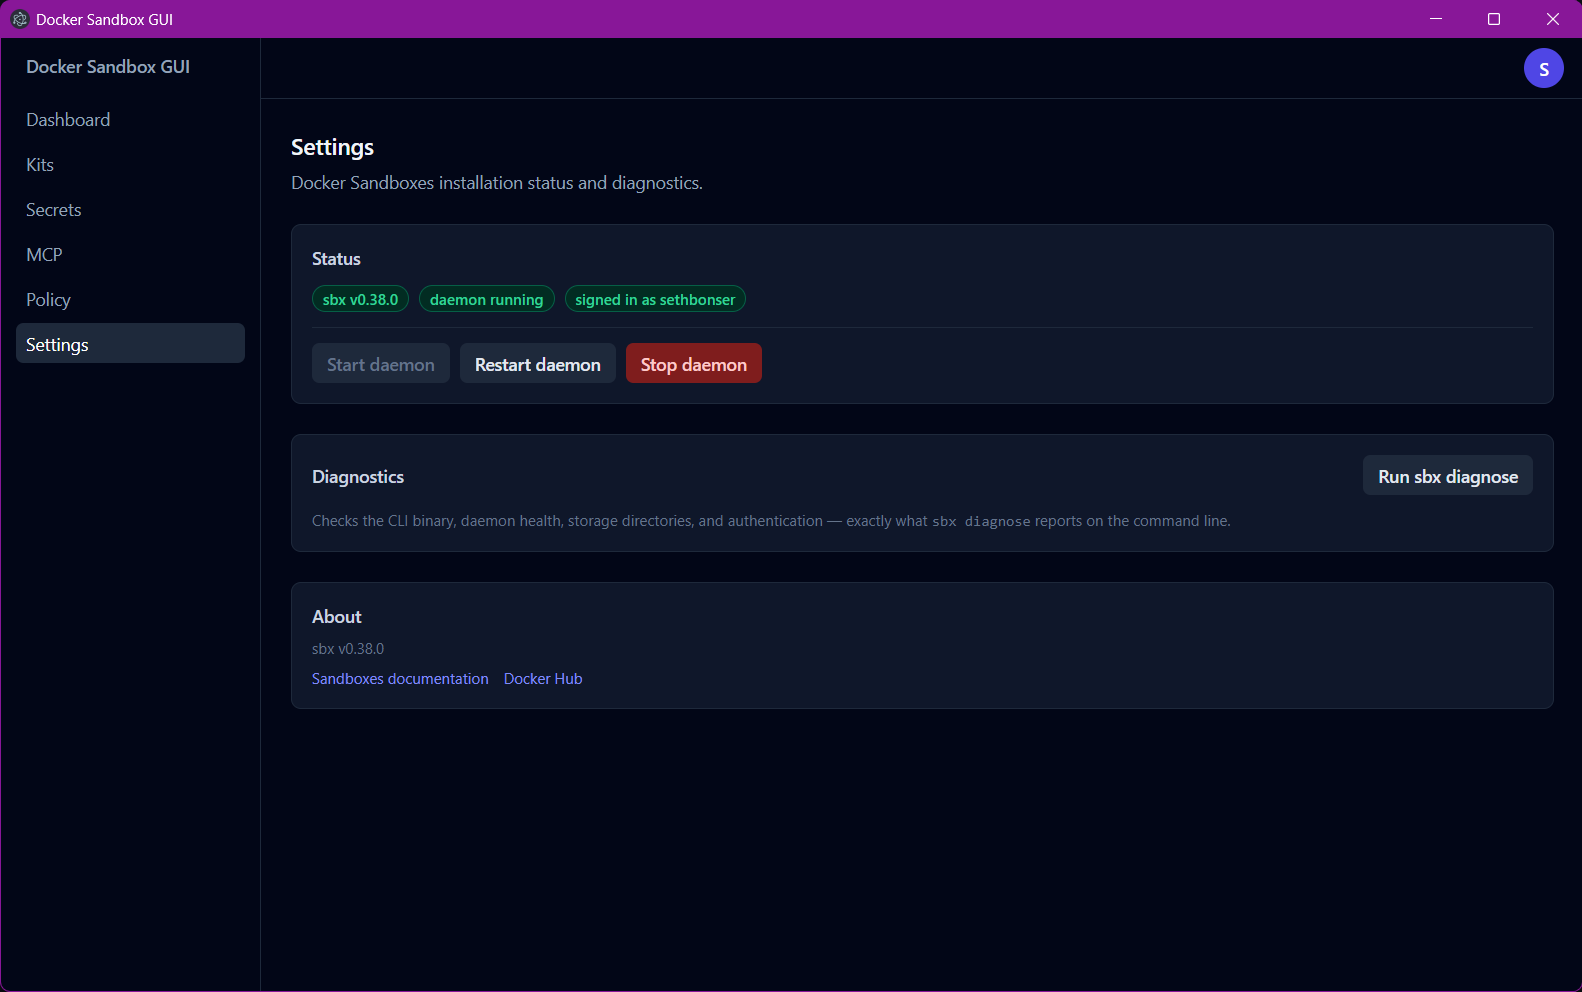
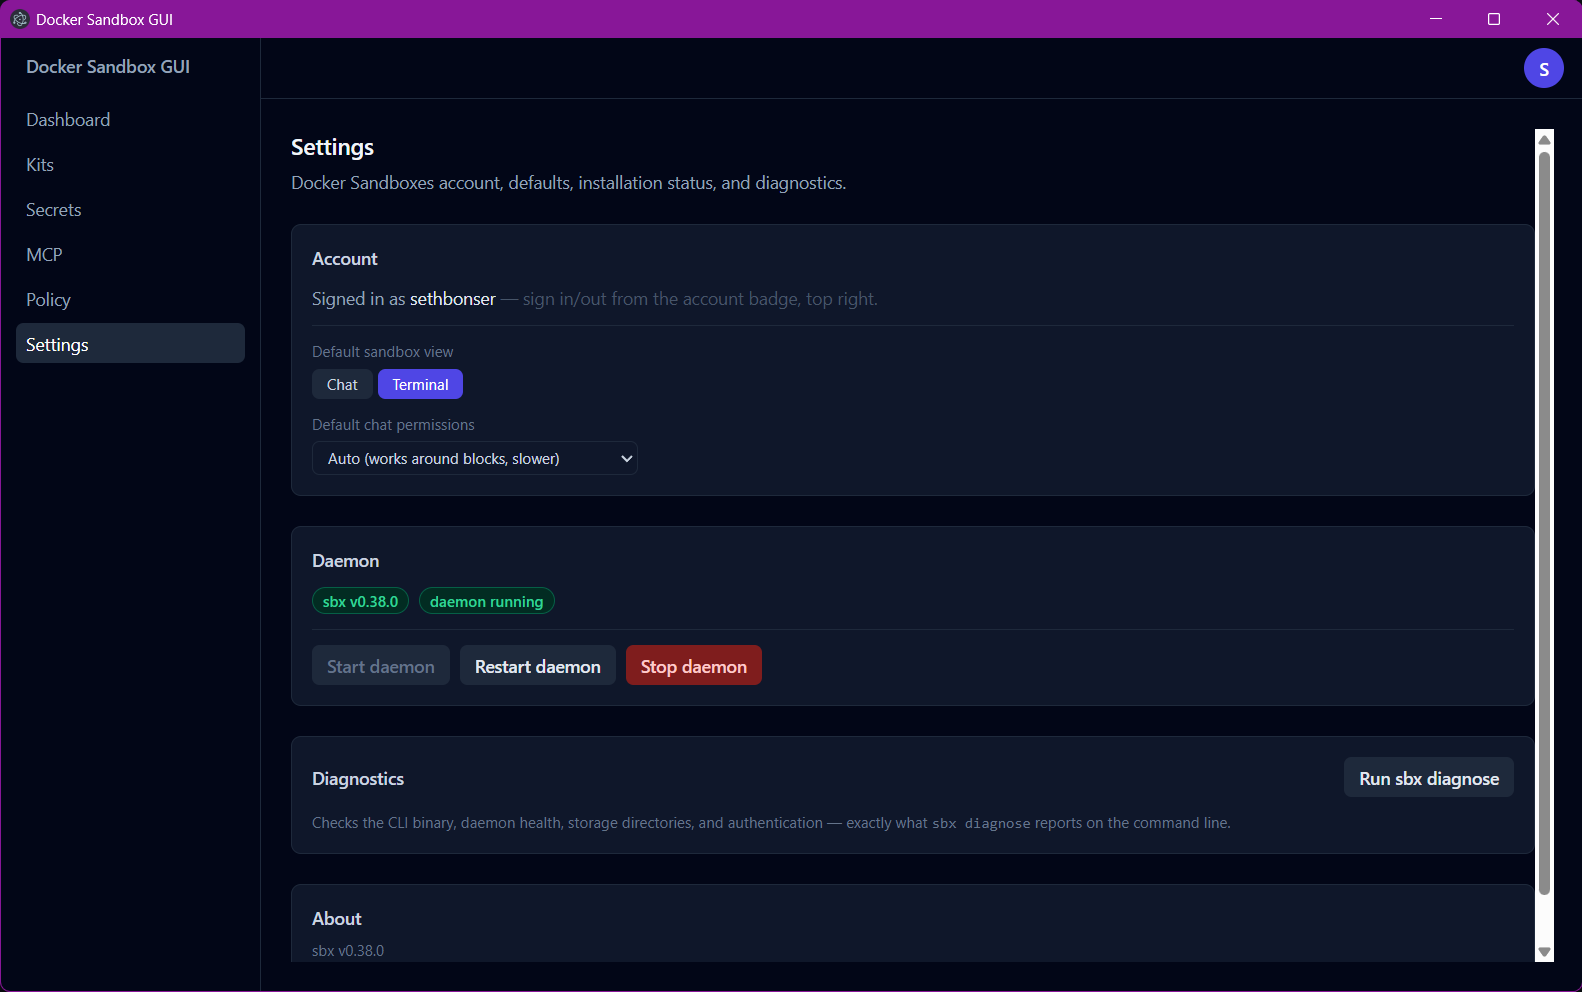
Moved relevant settings from the user badge to the settings page.
- Updated the readme to reflect the new changes
- Updated the user badge to remove the settings button and
  instead link to the settings page.
- Updated the settings page to include the relevant settings
  that were previously in the user badge.

diff --git a/src/renderer/src/routes/Settings.tsx b/src/renderer/src/routes/Settings.tsx
@@ -1,8 +1,17 @@
 import { Badge } from '@renderer/components/ui/Badge'
 import { Button } from '@renderer/components/ui/Button'
 import { Card } from '@renderer/components/ui/Card'
-import { useHealth } from '@renderer/state/queries'
-import { useDaemonRestart, useDaemonStart, useDaemonStop, useDiagnose } from '@renderer/state/mutations'
+import { useDefaultPermissionMode, useDefaultView, useHealth } from '@renderer/state/queries'
+import {
+  useDaemonRestart,
+  useDaemonStart,
+  useDaemonStop,
+  useDiagnose,
+  useSetDefaultPermissionMode,
+  useSetDefaultView
+} from '@renderer/state/mutations'
+import { PERMISSION_MODE_OPTIONS } from '@renderer/permissionModes'
+import type { ClaudePermissionMode, DefaultView } from '@shared/types'
 
 const STATUS_TONE: Record<string, 'success' | 'warning' | 'danger' | 'neutral'> = {
   pass: 'success',
@@ -13,10 +22,16 @@ const STATUS_TONE: Record<string, 'success' | 'warning' | 'danger' | 'neutral'> 
 
 export function Settings(): JSX.Element {
   const health = useHealth()
+  const defaultView = useDefaultView()
+  const setDefaultView = useSetDefaultView()
+  const defaultPermissionMode = useDefaultPermissionMode()
+  const setDefaultPermissionMode = useSetDefaultPermissionMode()
   const daemonStart = useDaemonStart()
   const daemonStop = useDaemonStop()
   const daemonRestart = useDaemonRestart()
   const diagnose = useDiagnose()
+
+  const username = health.data?.username ?? null
 
   async function handleStop(): Promise<void> {
     if (
@@ -46,11 +61,61 @@ export function Settings(): JSX.Element {
     <div className="flex h-full flex-col gap-6 overflow-auto">
       <div>
         <h1 className="text-lg font-semibold text-slate-100">Settings</h1>
-        <p className="mt-1 text-sm text-slate-400">Docker Sandboxes installation status and diagnostics.</p>
+        <p className="mt-1 text-sm text-slate-400">
+          Docker Sandboxes account, defaults, installation status, and diagnostics.
+        </p>
       </div>
 
       <Card className="flex flex-col gap-3">
-        <h2 className="text-sm font-semibold text-slate-300">Status</h2>
+        <h2 className="text-sm font-semibold text-slate-300">Account</h2>
+        <p className="text-sm text-slate-400">
+          {username ? (
+            <>
+              Signed in as <span className="text-slate-200">{username}</span>
+            </>
+          ) : (
+            'Not signed in to Docker'
+          )}
+          <span className="text-slate-600"> — sign in/out from the account badge, top right.</span>
+        </p>
+
+        <div className="border-t border-slate-800 pt-3">
+          <p className="text-xs text-slate-500">Default sandbox view</p>
+          <div className="mt-1.5 flex gap-1">
+            {(['chat', 'terminal'] as const).map((view) => (
+              <button
+                key={view}
+                onClick={() => setDefaultView.mutate(view as DefaultView)}
+                className={`rounded-md px-3 py-1 text-xs capitalize ${
+                  defaultView.data === view
+                    ? 'bg-indigo-600 text-white'
+                    : 'bg-slate-800 text-slate-300 hover:bg-slate-700'
+                }`}
+              >
+                {view}
+              </button>
+            ))}
+          </div>
+        </div>
+
+        <div>
+          <p className="text-xs text-slate-500">Default chat permissions</p>
+          <select
+            value={defaultPermissionMode.data ?? 'default'}
+            onChange={(e) => setDefaultPermissionMode.mutate(e.target.value as ClaudePermissionMode)}
+            className="mt-1.5 rounded-md border border-slate-800 bg-slate-900 px-2 py-1 text-xs text-slate-300"
+          >
+            {PERMISSION_MODE_OPTIONS.map((opt) => (
+              <option key={opt.value} value={opt.value}>
+                {opt.label}
+              </option>
+            ))}
+          </select>
+        </div>
+      </Card>
+
+      <Card className="flex flex-col gap-3">
+        <h2 className="text-sm font-semibold text-slate-300">Daemon</h2>
         {health.isLoading && <p className="text-sm text-slate-400">Loading…</p>}
         {health.data && (
           <div className="flex flex-wrap items-center gap-2">
@@ -59,9 +124,6 @@ export function Settings(): JSX.Element {
             </Badge>
             <Badge tone={health.data.daemonUp ? 'success' : 'danger'}>
               daemon {health.data.daemonUp ? 'running' : 'stopped'}
-            </Badge>
-            <Badge tone={health.data.loggedIn ? 'success' : 'warning'}>
-              {health.data.loggedIn ? `signed in as ${health.data.username ?? '?'}` : 'not signed in'}
             </Badge>
           </div>
         )}

diff --git a/src/renderer/src/components/UserBadge.tsx b/src/renderer/src/components/UserBadge.tsx
@@ -1,19 +1,10 @@
 import { useState } from 'react'
-import { useDefaultPermissionMode, useDefaultView, useHealth } from '@renderer/state/queries'
-import { useSetDefaultPermissionMode, useSetDefaultView } from '@renderer/state/mutations'
-import { PERMISSION_MODE_OPTIONS } from '@renderer/permissionModes'
+import { Link } from 'react-router-dom'
 import { useQueryClient } from '@tanstack/react-query'
-import type { ClaudePermissionMode, DefaultView } from '@shared/types'
-
-const DOCKER_HUB_URL = 'https://hub.docker.com'
-const SBX_DOCS_URL = 'https://docs.docker.com/ai/sandboxes/'
+import { useHealth } from '@renderer/state/queries'
 
 export function UserBadge(): JSX.Element {
   const health = useHealth()
-  const defaultView = useDefaultView()
-  const setDefaultView = useSetDefaultView()
-  const defaultPermissionMode = useDefaultPermissionMode()
-  const setDefaultPermissionMode = useSetDefaultPermissionMode()
   const queryClient = useQueryClient()
   const [open, setOpen] = useState(false)
   const [signingIn, setSigningIn] = useState(false)
@@ -44,11 +35,6 @@ export function UserBadge(): JSX.Element {
     } finally {
       setSigningOut(false)
     }
-  }
-
-  function openLink(url: string): void {
-    void window.sbxApi.openExternal(url)
-    setOpen(false)
   }
 
   return (
@@ -99,54 +85,13 @@ export function UserBadge(): JSX.Element {
 
             <div className="my-2 border-t border-slate-800" />
 
-            <div className="px-2 py-1 text-xs text-slate-500">Default sandbox view</div>
-            <div className="flex gap-1 px-2 pb-1">
-              {(['chat', 'terminal'] as const).map((view) => (
-                <button
-                  key={view}
-                  onClick={() => setDefaultView.mutate(view as DefaultView)}
-                  className={`flex-1 rounded-md px-2 py-1 text-xs capitalize ${
-                    defaultView.data === view
-                      ? 'bg-indigo-600 text-white'
-                      : 'bg-slate-800 text-slate-300 hover:bg-slate-700'
-                  }`}
-                >
-                  {view}
-                </button>
-              ))}
-            </div>
-
-            <div className="px-2 py-1 text-xs text-slate-500">Default chat permissions</div>
-            <div className="px-2 pb-1">
-              <select
-                value={defaultPermissionMode.data ?? 'default'}
-                onChange={(e) =>
-                  setDefaultPermissionMode.mutate(e.target.value as ClaudePermissionMode)
-                }
-                className="w-full rounded-md border border-slate-800 bg-slate-900 px-2 py-1 text-xs text-slate-300"
-              >
-                {PERMISSION_MODE_OPTIONS.map((opt) => (
-                  <option key={opt.value} value={opt.value}>
-                    {opt.label}
-                  </option>
-                ))}
-              </select>
-            </div>
-
-            <div className="my-2 border-t border-slate-800" />
-
-            <button
-              onClick={() => openLink(DOCKER_HUB_URL)}
-              className="w-full rounded-md px-2 py-1.5 text-left text-sm text-slate-300 hover:bg-slate-800"
+            <Link
+              to="/settings"
+              onClick={() => setOpen(false)}
+              className="block w-full rounded-md px-2 py-1.5 text-left text-sm text-slate-200 hover:bg-slate-800"
             >
-              Docker Hub
-            </button>
-            <button
-              onClick={() => openLink(SBX_DOCS_URL)}
-              className="w-full rounded-md px-2 py-1.5 text-left text-sm text-slate-300 hover:bg-slate-800"
-            >
-              Sandboxes documentation
-            </button>
+              Settings
+            </Link>
           </div>
         </>
       )}

diff --git a/README.md b/README.md
@@ -38,7 +38,7 @@ Status: early, actively developed. Windows-first; a macOS build is scaffolded bu
 
 Deliberately out of scope for v1 (asked and confirmed): registry pull credentials (`--registry`, for private kit/template images — a separate, less common concern from service API keys) and `sbx secret import` (auto-detecting host env vars like `OPENAI_API_KEY`).
 
-**Settings** (`src/renderer/src/routes/Settings.tsx`) is the real Settings screen — distinct from the `UserBadge` dropdown's login/logout and default-view/permission-mode toggles, which stay where they are. Three sections: daemon status with Start/Restart/Stop controls (Restart and Stop are gated behind a confirm dialog — both make every running sandbox briefly or fully unreachable), a `sbx diagnose` viewer, and version/doc links. One real gotcha: `sbx diagnose` exits non-zero the moment any check fails, even in `-o json` mode where stdout still carries a complete, valid report — a failing check is meaningful data to show the user, not a command failure to swallow. The shared `run()` helper used everywhere else rejects (and discards stdout) on a non-zero exit, so diagnose needed its own `runIgnoringExitCode` variant that only rejects when the binary is genuinely missing.
+**Settings** (`src/renderer/src/routes/Settings.tsx`) is the real Settings screen — it now owns the default sandbox view and default chat permissions pickers that used to live in the `UserBadge` dropdown, plus daemon status with Start/Restart/Stop controls (Restart and Stop are gated behind a confirm dialog — both make every running sandbox briefly or fully unreachable), a `sbx diagnose` viewer, and version/doc links. Sign in/out deliberately **stayed** in `UserBadge` rather than moving too — it's the account-status indicator (the colored initial, showing signed-in state at a glance), so the action that changes that state lives right there rather than a click away; Settings shows the same status read-only for context but the actual Sign in/Log out buttons are only in the badge dropdown, not duplicated in both places. One real gotcha: `sbx diagnose` exits non-zero the moment any check fails, even in `-o json` mode where stdout still carries a complete, valid report — a failing check is meaningful data to show the user, not a command failure to swallow. The shared `run()` helper used everywhere else rejects (and discards stdout) on a non-zero exit, so diagnose needed its own `runIgnoringExitCode` variant that only rejects when the binary is genuinely missing.
 
 **How each feature was scoped:** the CLI's actual behavior was verified against a live `sbx` install throughout — real JSON output shapes, real error text, real flag requirements (e.g. `sbx rm` and `sbx logout` need `-f`/`-y` or they hang forever waiting for a TTY confirmation prompt that will never come) — rather than working from documentation assumptions alone.
 
@@ -152,7 +152,7 @@ The Dashboard is what you land on — every sandbox you've created, with its sta
 
    ![Secrets page](assets/sandbox_gui_secrets.png)
 
-8. **Settings** (left nav) shows daemon status with Start/Restart/Stop controls, a live `sbx diagnose` viewer, and version/doc links. The account badge's dropdown (shown above) still holds your defaults — which tab (Chat/Terminal) new sandboxes open to, and which permission mode new chat sessions start with — those didn't move.
+8. **Settings** (left nav) holds your defaults (which tab new sandboxes open to, which permission mode new chat sessions start with), daemon status with Start/Restart/Stop controls, a live `sbx diagnose` viewer, and version/doc links. Sign in/out (shown above) stayed in the account badge dropdown rather than moving here.
 
    ![Settings page](assets/sandbox_gui_settings.png)
 
@@ -174,10 +174,11 @@ For an agent picking this project back up: the app is built incrementally, each 
 - **Structured chat adapter for non-Claude agents** (Codex, Gemini, Copilot, etc.) — the Terminal tab already gives them a working *interactive* session today (it's agent-agnostic), so this is specifically about parsing a non-Claude agent's own headless/structured output mode (if one exists) into the same chat-bubble UI Claude gets. Lower urgency now that Terminal covers the "can I use it at all" gap.
 - **Onboarding** — first-run detection of whether `sbx` is installed at all, a guided `winget install -h Docker.sbx` flow, and steering a first-time user toward the Policy page's tier switcher. Right now the app assumes `sbx` is already installed and initialized.
 - **A GitHub Actions release workflow**, building on a tag push and attaching installers to a GitHub Release, instead of building and uploading manually. Worth doing specifically because `macos-latest` runners are real Macs — this would actually unlock macOS builds, which right now can't be produced at all from this Windows machine (see [Running on macOS](#running-on-macos)). Doesn't change the unsigned/unnotarized status of either platform's output on its own; that still needs a Windows code-signing cert and an Apple Developer identity, a separate decision. Deliberately not started yet — discussed and deferred for now.
+- **Password-manager integration for the Secrets page.** This is about the *input* path, not at-rest storage — stored secrets already go straight into `sbx`'s own OS-keychain-backed store (see Security measures), never touched by this app once saved. The gap is that getting a value there today means copy-pasting it from wherever it actually lives into a plaintext `<input>`. Likely shape: shell out to an installed password-manager CLI (1Password's `op`, Bitwarden's `bw`) to fetch a secret by reference and pipe it straight into the existing stdin-based `secretSet`/`runWithStdin` plumbing (see above) — the value would never populate the visible form field or pass through renderer state at all, reusing infrastructure already built rather than adding a new one. Not started; added to the backlog on request.
 
 **Already resolved (was previously listed here as deferred):**
 - **In-chat interactive menus** (`/mcp`, autocomplete, other slash-command pickers) *for the Chat tab specifically* remain structurally impossible — confirmed even more concretely than before: Claude Code's own harness explicitly refuses `/mcp reconnect`/`auth`/`enable`/`disable` in a headless session ("aren't available in this session"), it's not just an unimplemented picker. The Terminal tab (`xterm.js` + `node-pty`) is the answer for anything needing that real interactivity, and now has a one-click "Check /mcp" button plus deep-links from both the Chat banner and the MCP page's per-server rows.
-- **Ports and Policy tabs** on the sandbox detail page, plus a **global Policy page** (tier switcher + custom rules), an **MCP server management page** (register/authorize/load), a **Secrets manager** (per-service API keys/OAuth, global or per-sandbox), and a **real Settings screen** (daemon status/start/stop/restart, an `sbx diagnose` viewer, version/doc links) in the left nav — all done, see above. Login/logout and the default-view/default-permission-mode toggles deliberately stayed in the `UserBadge` dropdown rather than moving to the new Settings page.
+- **Ports and Policy tabs** on the sandbox detail page, plus a **global Policy page** (tier switcher + custom rules), an **MCP server management page** (register/authorize/load), a **Secrets manager** (per-service API keys/OAuth, global or per-sandbox), and a **real Settings screen** (default view/permission-mode, daemon status/start/stop/restart, an `sbx diagnose` viewer, version/doc links) in the left nav — all done, see above. Sign in/out deliberately stayed in the `UserBadge` dropdown rather than moving to Settings too (see above for why); the default-view/default-permission-mode toggles are the pieces that actually moved.
 
 **Still deliberately deferred (with reasoning, so it isn't re-litigated from scratch):**
 - **Authorizing an MCP connector from Chat** — not a missing feature, a hard platform limitation (see above). Don't re-attempt scripting it through the headless protocol; the Terminal tab is the only real path, and Chat already links to it.
